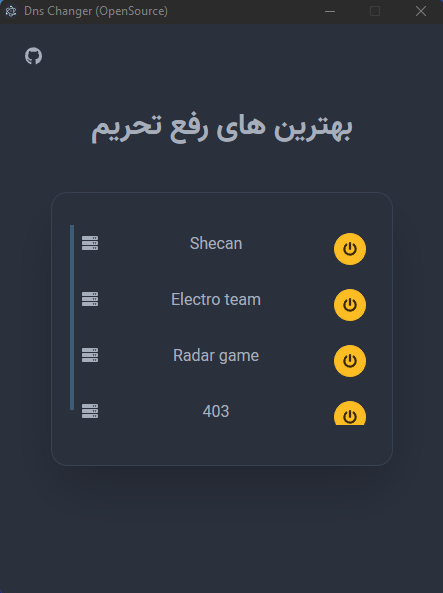
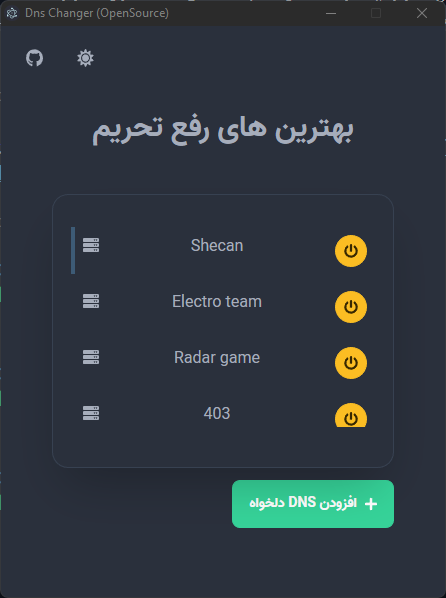
update README & changelog

diff --git a/README.md b/README.md
@@ -1,4 +1,4 @@
-# معرفی
+# ✍ معرفی
 ![GitHub language count](https://img.shields.io/github/languages/count/DnsChanger/dnsChanger-desktop)
 ![GitHub top language](https://img.shields.io/github/languages/top/DnsChanger/dnsChanger-desktop)
 [![Github All Releases](https://img.shields.io/github/downloads/DnsChanger/dnsChanger-desktop/total.svg)]()
@@ -7,23 +7,27 @@
 یک DNS Changer فارسی و اوپن سورس برای سیستم عامل های ویندوز ، مک و لینوکس  که هدفش جمع آوری بهترین DNS ها در یک اپلیکیشن  امن هستش
 
 
-## تصاویر
+## 📥 دانلود 
+برای دانلود به قسمت [releases](https://github.com/DnsChanger/dnsChanger-desktop/releases) مراجعه کنید.
+
+## 🖼 تصاویر
 <p align="center">
     <img src="github/scr1.png" alt="dnsChanger screenshot 1" width="600">
 </p>
 <p align="center">
-    <img src="github/scr3.png" alt="dnsChanger screenshot 3" width="600">
+    <img src="github/scr2.png" alt="dnsChanger screenshot 3" width="600">
 </p>
 <p align="center">
-    <img src="github/scr2.png" alt="dnsChanger screenshot 2" width="600">
+    <img src="github/scr3.png" alt="dnsChanger screenshot 2" width="600">
+</p>
+<p align="center">
+    <img src="github/scr4.png" alt="dnsChanger screenshot 2" width="600">
 </p>
 
 
-# لیست  تسک ها
-- انتشار نسخه های مک و لینوکس
+# 🗓 لیست  تسک ها
+- انتشار نسخه مک
 
-## لاگ تغییرات
+## 📝 لاگ تغییرات
 
 شما میتونید [لاگ تغییرات](changelog.md) رو برای اطلاعات بیشتر و تغییرات اخیر مشاهده کنید
-## Figma
-https://www.figma.com/file/n16qvt0yIfLUHjuocl65yr/DnsChanger?node-id=0%3A1&t=7IZyM30RUbxewnbf-1

diff --git a/changelog.md b/changelog.md
@@ -3,3 +3,11 @@
 ## v1.0.0
 
 - انتشار نسخه اولیه
+
+
+## v1.1.0
+
+- اضافه شدن امکان افزودن سرور DNS دلخواه
+- تشخیص DNS فعلی هنگام اجرا برنامه
+- اضافه شدن تغییر تم
+- اضافه شدن پشتیبانی از لینوکس
